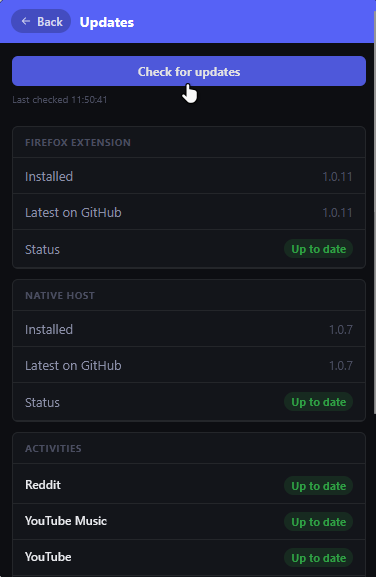
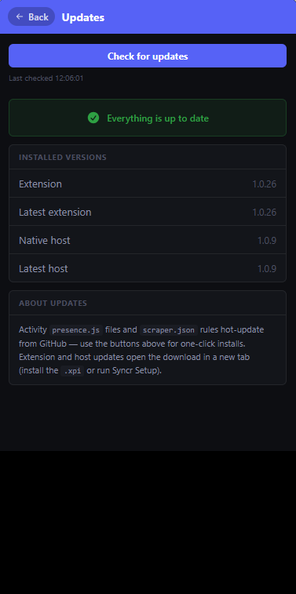
Gallery: add auto-updater screenshot as 6th carousel slide

diff --git a/app.js b/app.js
@@ -371,6 +371,7 @@
     'assets/shots/discord-3.png',
     'assets/shots/discord-4.png',
     'assets/shots/discord-5.png',
+    'assets/shots/popup-autoupdate.png',
   ];
   var shotIdx = 0;
   var shotMain = document.getElementById('shotMain');

diff --git a/index.html b/index.html
@@ -167,6 +167,7 @@
           <button class="shot-dot" data-i="2" aria-label="Screenshot 3"></button>
           <button class="shot-dot" data-i="3" aria-label="Screenshot 4"></button>
           <button class="shot-dot" data-i="4" aria-label="Screenshot 5"></button>
+          <button class="shot-dot" data-i="5" aria-label="Screenshot 6"></button>
         </div>
       </div>
     </div>